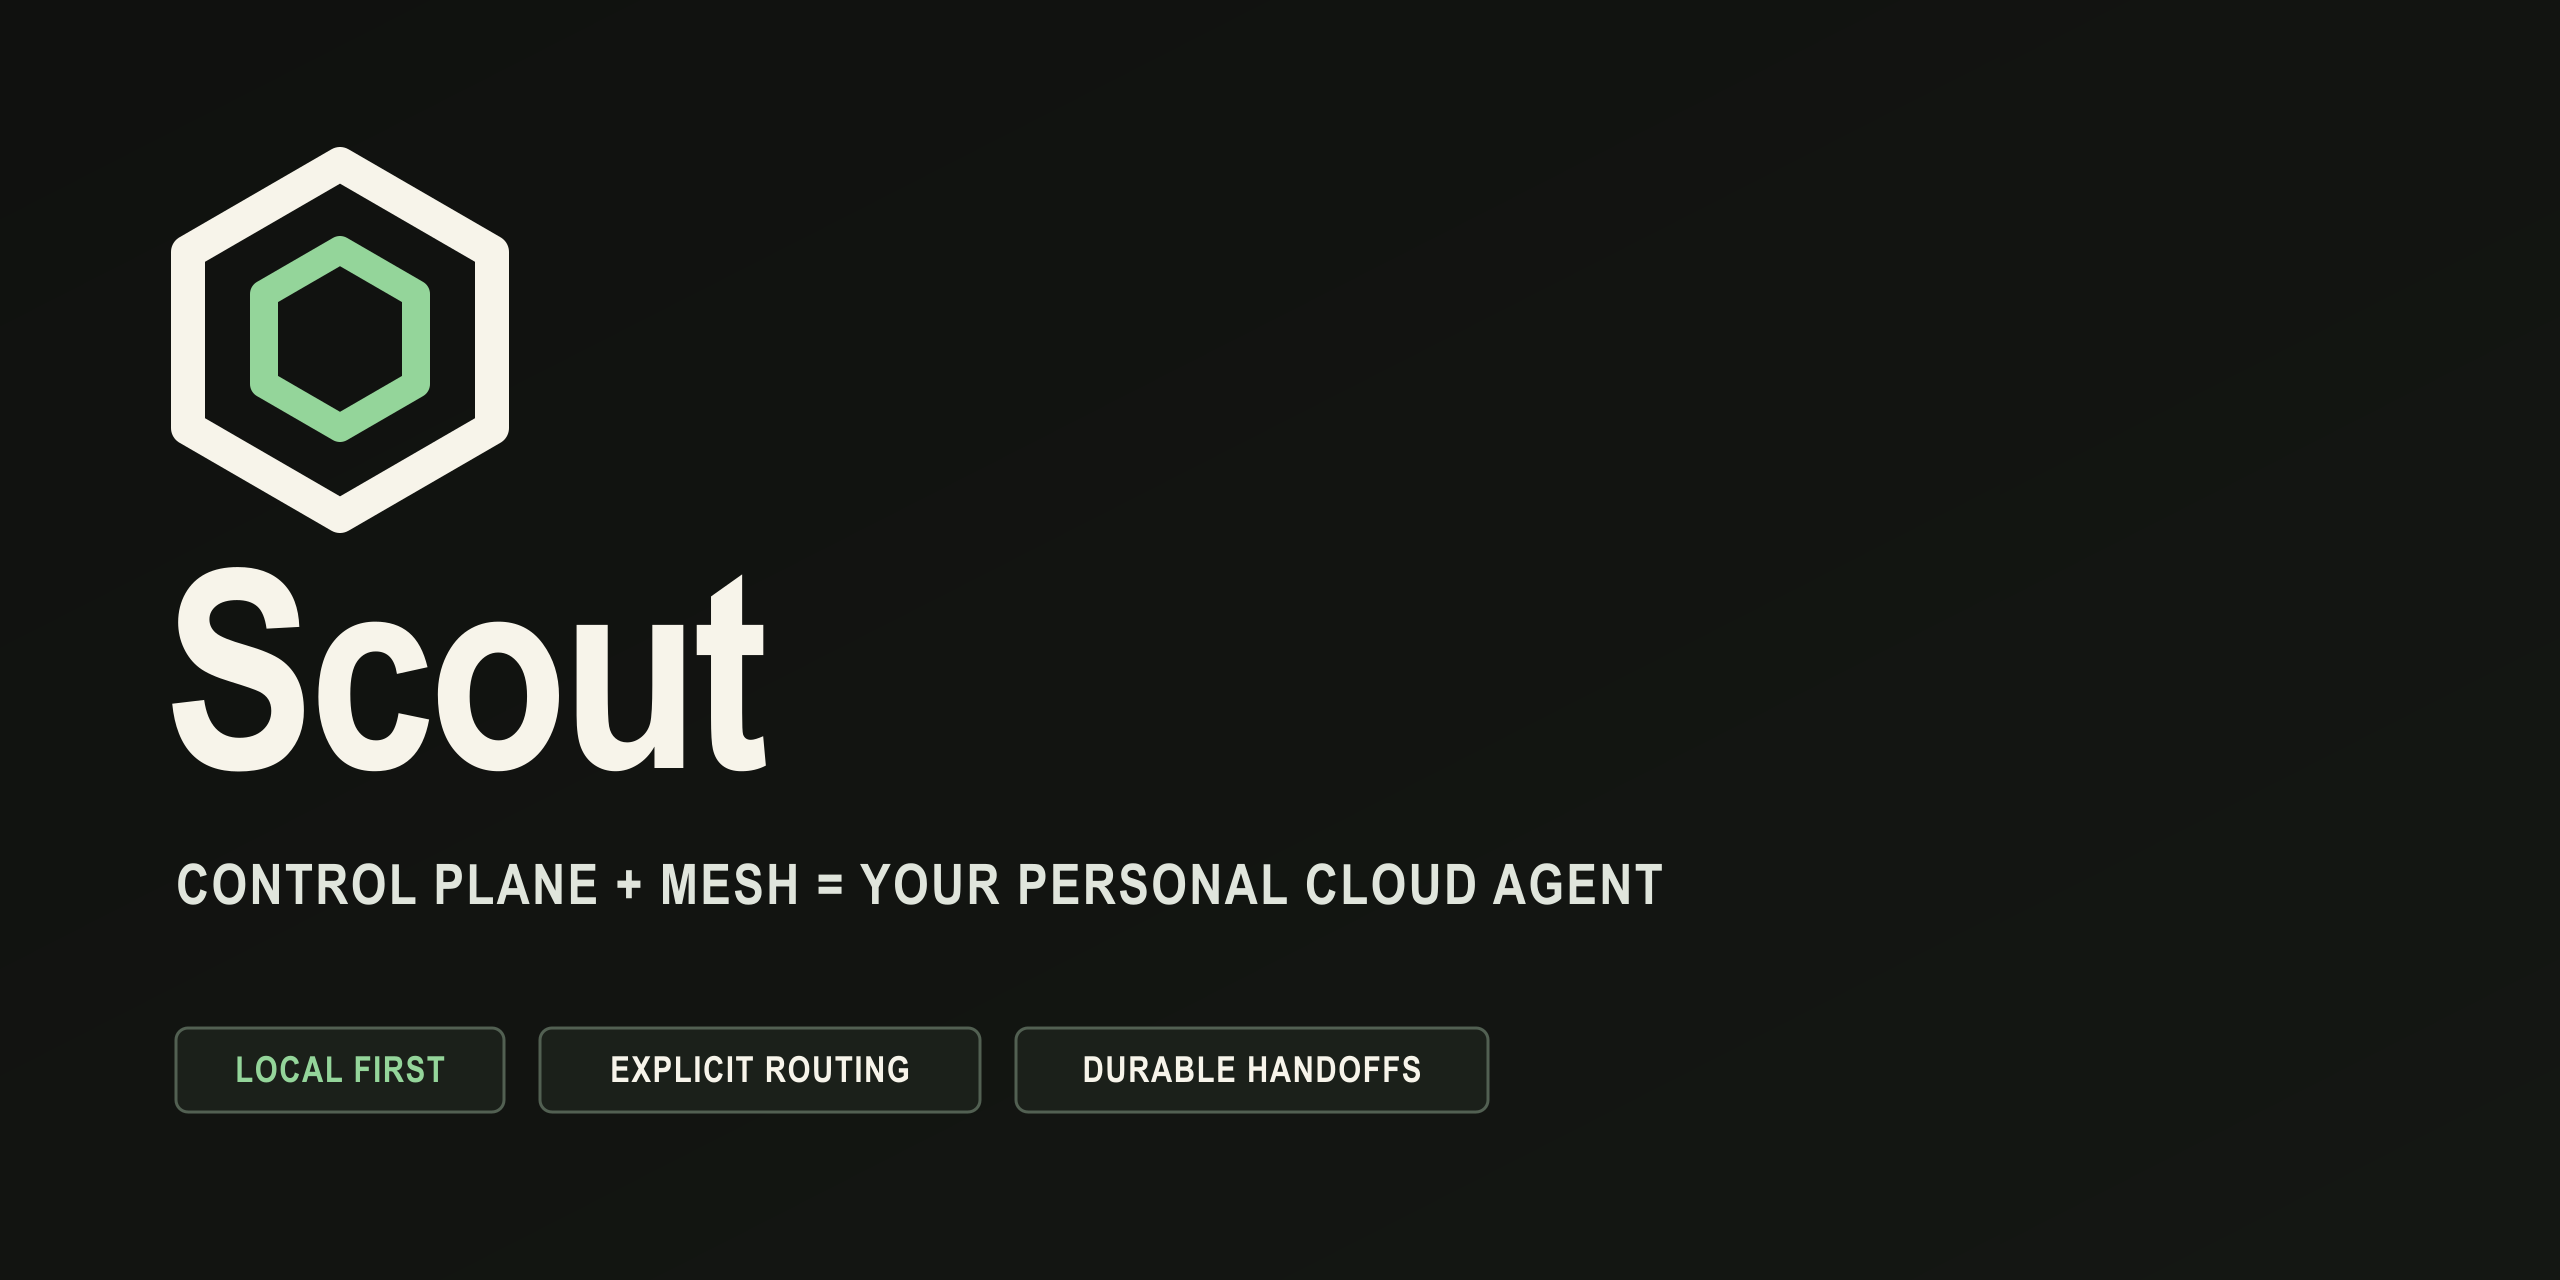
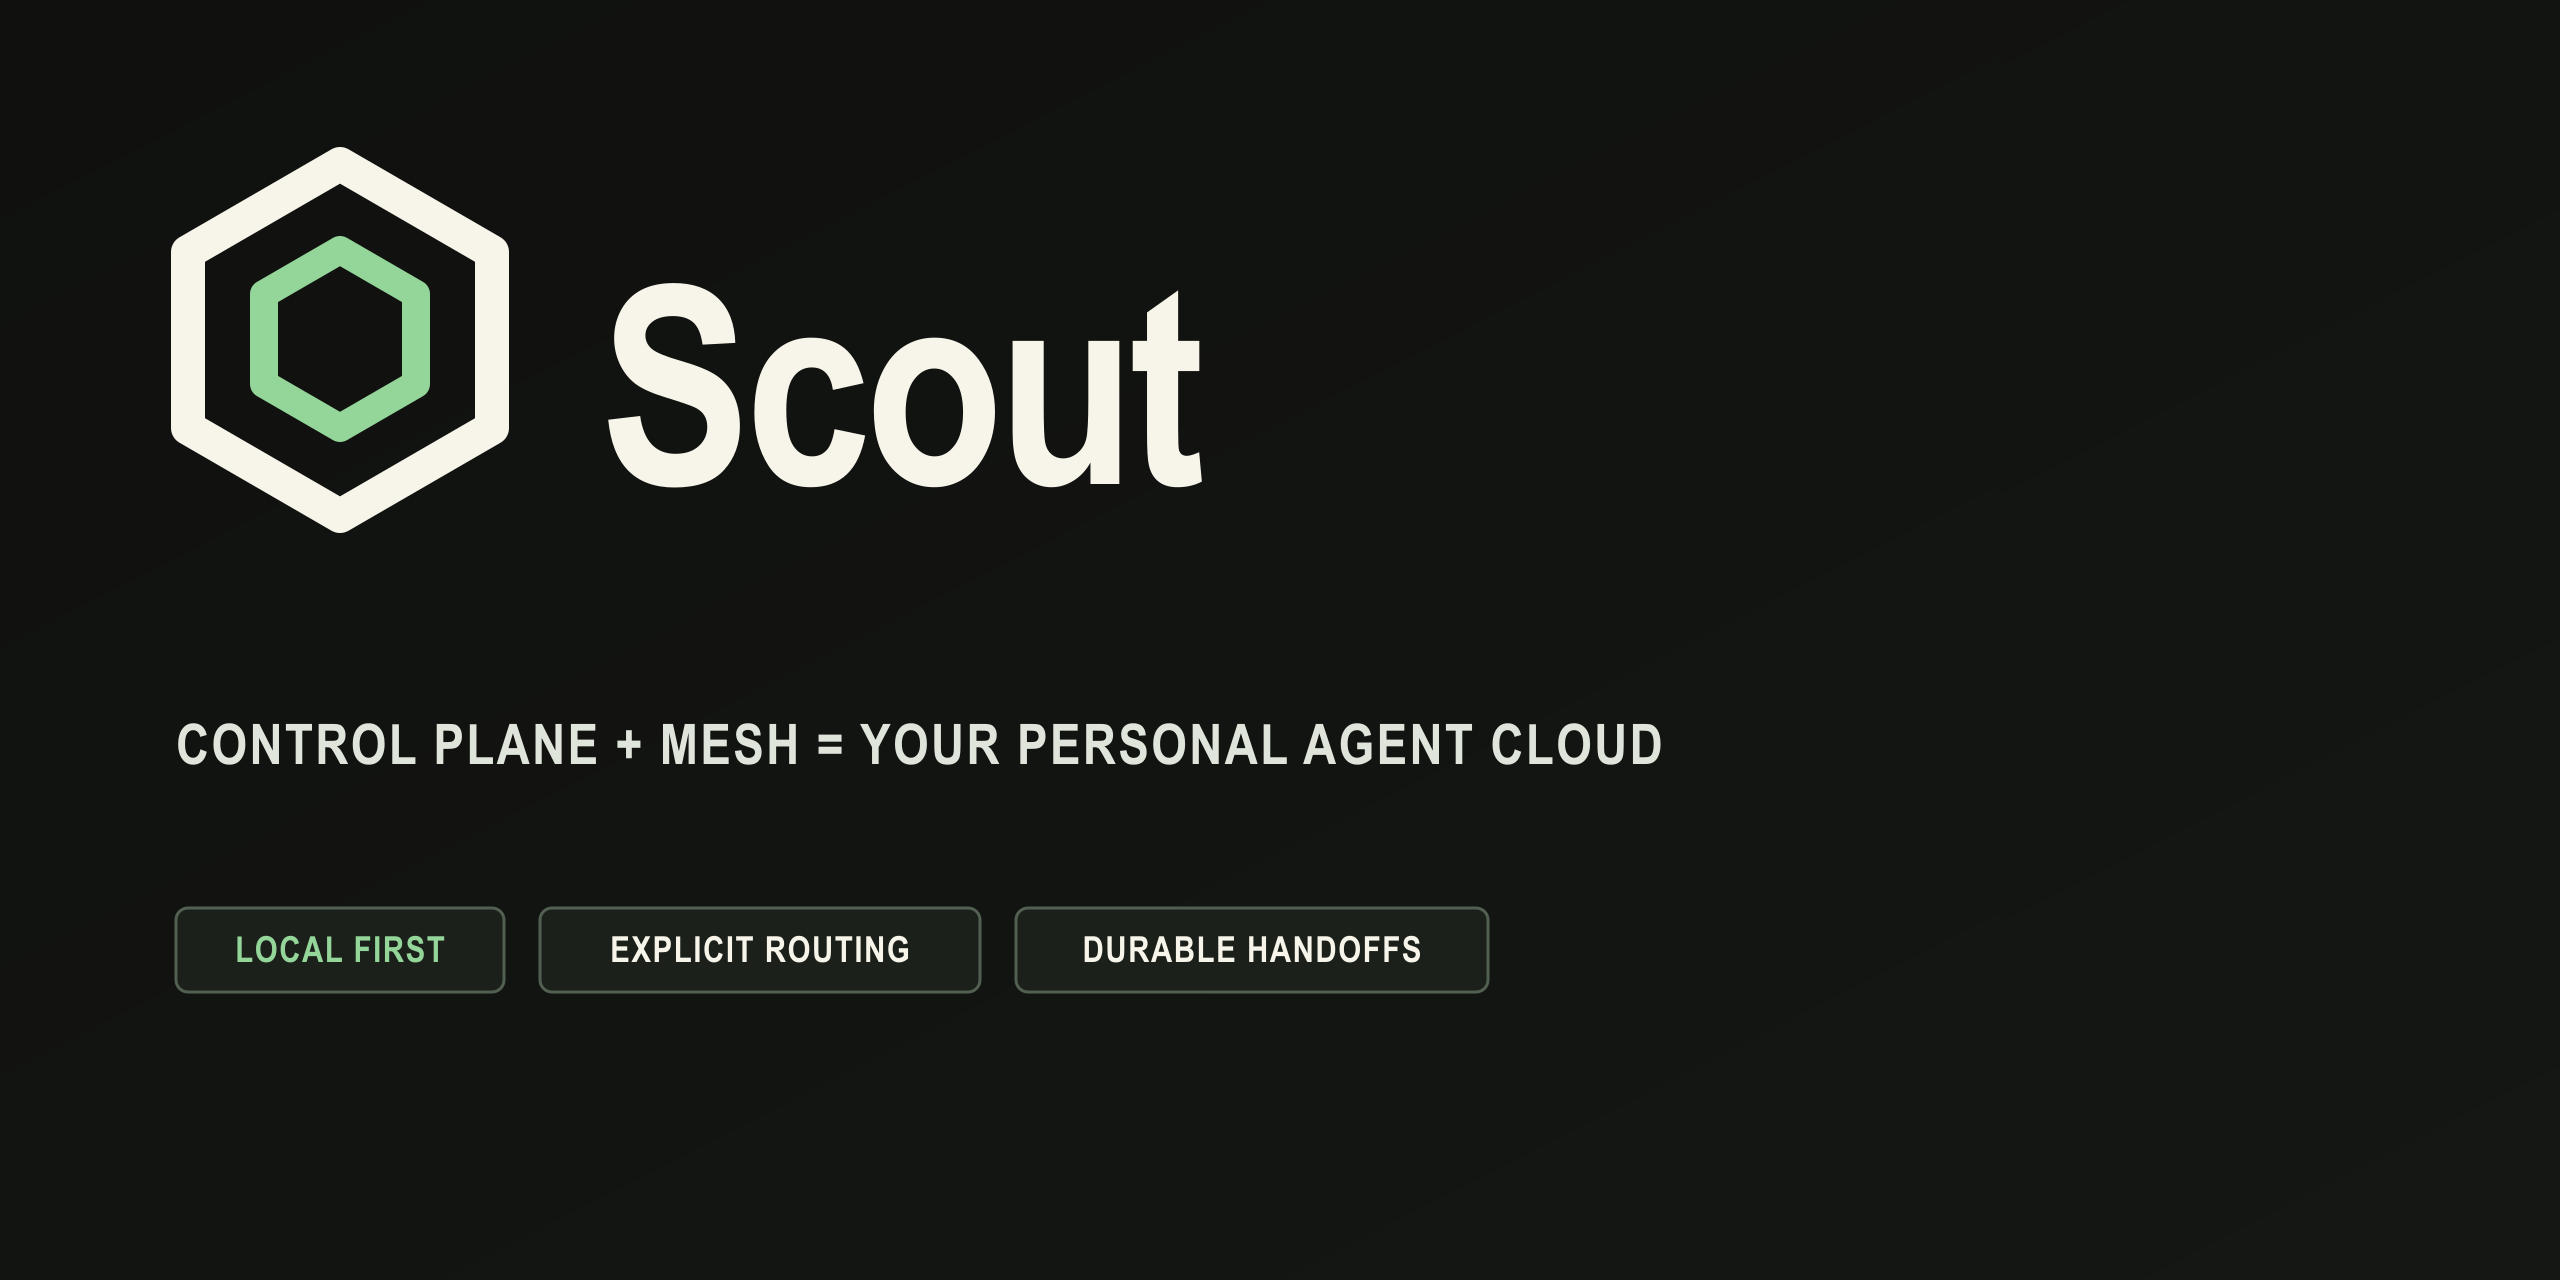
🎨 Refine Scout lockup and naming (#3)

diff --git a/profile/README.md b/profile/README.md
@@ -1,9 +1,9 @@
 <p align="center">
-  <img src="./assets/org-hero.svg" alt="Scout — open infrastructure for your personal cloud agent" width="100%" />
+  <img src="./assets/org-hero.svg" alt="Scout — open infrastructure for your personal agent cloud" width="100%" />
 </p>
 
 <p align="center">
-  <strong>Open infrastructure for your personal cloud agent.</strong><br />
+  <strong>Open infrastructure for your personal agent cloud.</strong><br />
   A local control plane and mesh network across the machines you own.
 </p>
 
@@ -19,7 +19,7 @@ We build the public core of **OpenScout**: a local-first control plane for
 discovering coding-agent sessions, routing work, and keeping coordination
 durable across tools and machines.
 
-> **Local control plane + mesh network = your personal cloud agent.**
+> **Local control plane + mesh network = your personal agent cloud.**
 
 ## Start with Scout
 

diff --git a/ORG_METADATA.md b/ORG_METADATA.md
@@ -5,7 +5,7 @@ Use these values when configuring the public GitHub organization.
 | Field | Value |
 | --- | --- |
 | Display name | oscout |
-| Description | Open infrastructure for your personal cloud agent. Home of Scout. |
+| Description | Open infrastructure for your personal agent cloud. Home of Scout. |
 | URL | `https://oscout.net` |
 | Avatar | `assets/oscout-avatar.png` |
 | Profile README | `profile/README.md` |
